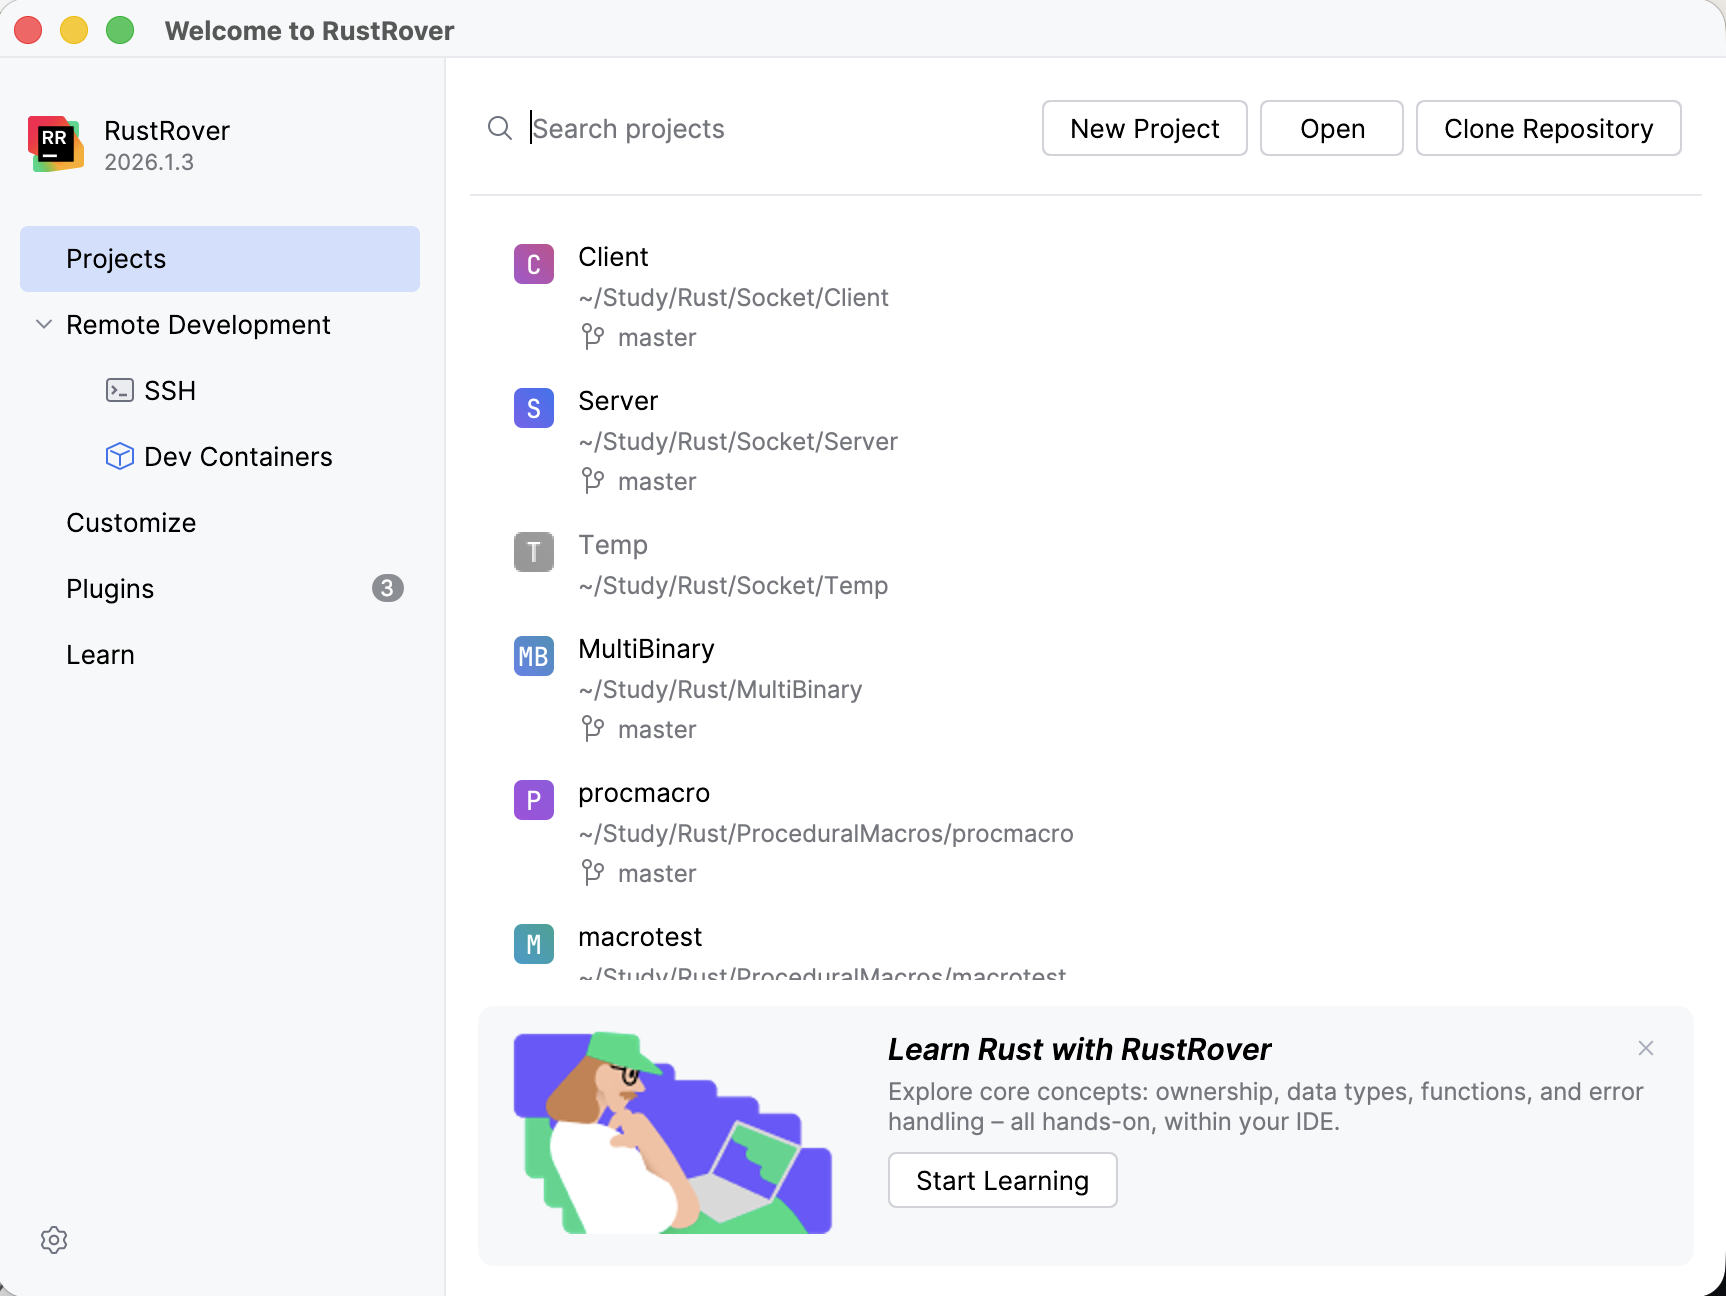
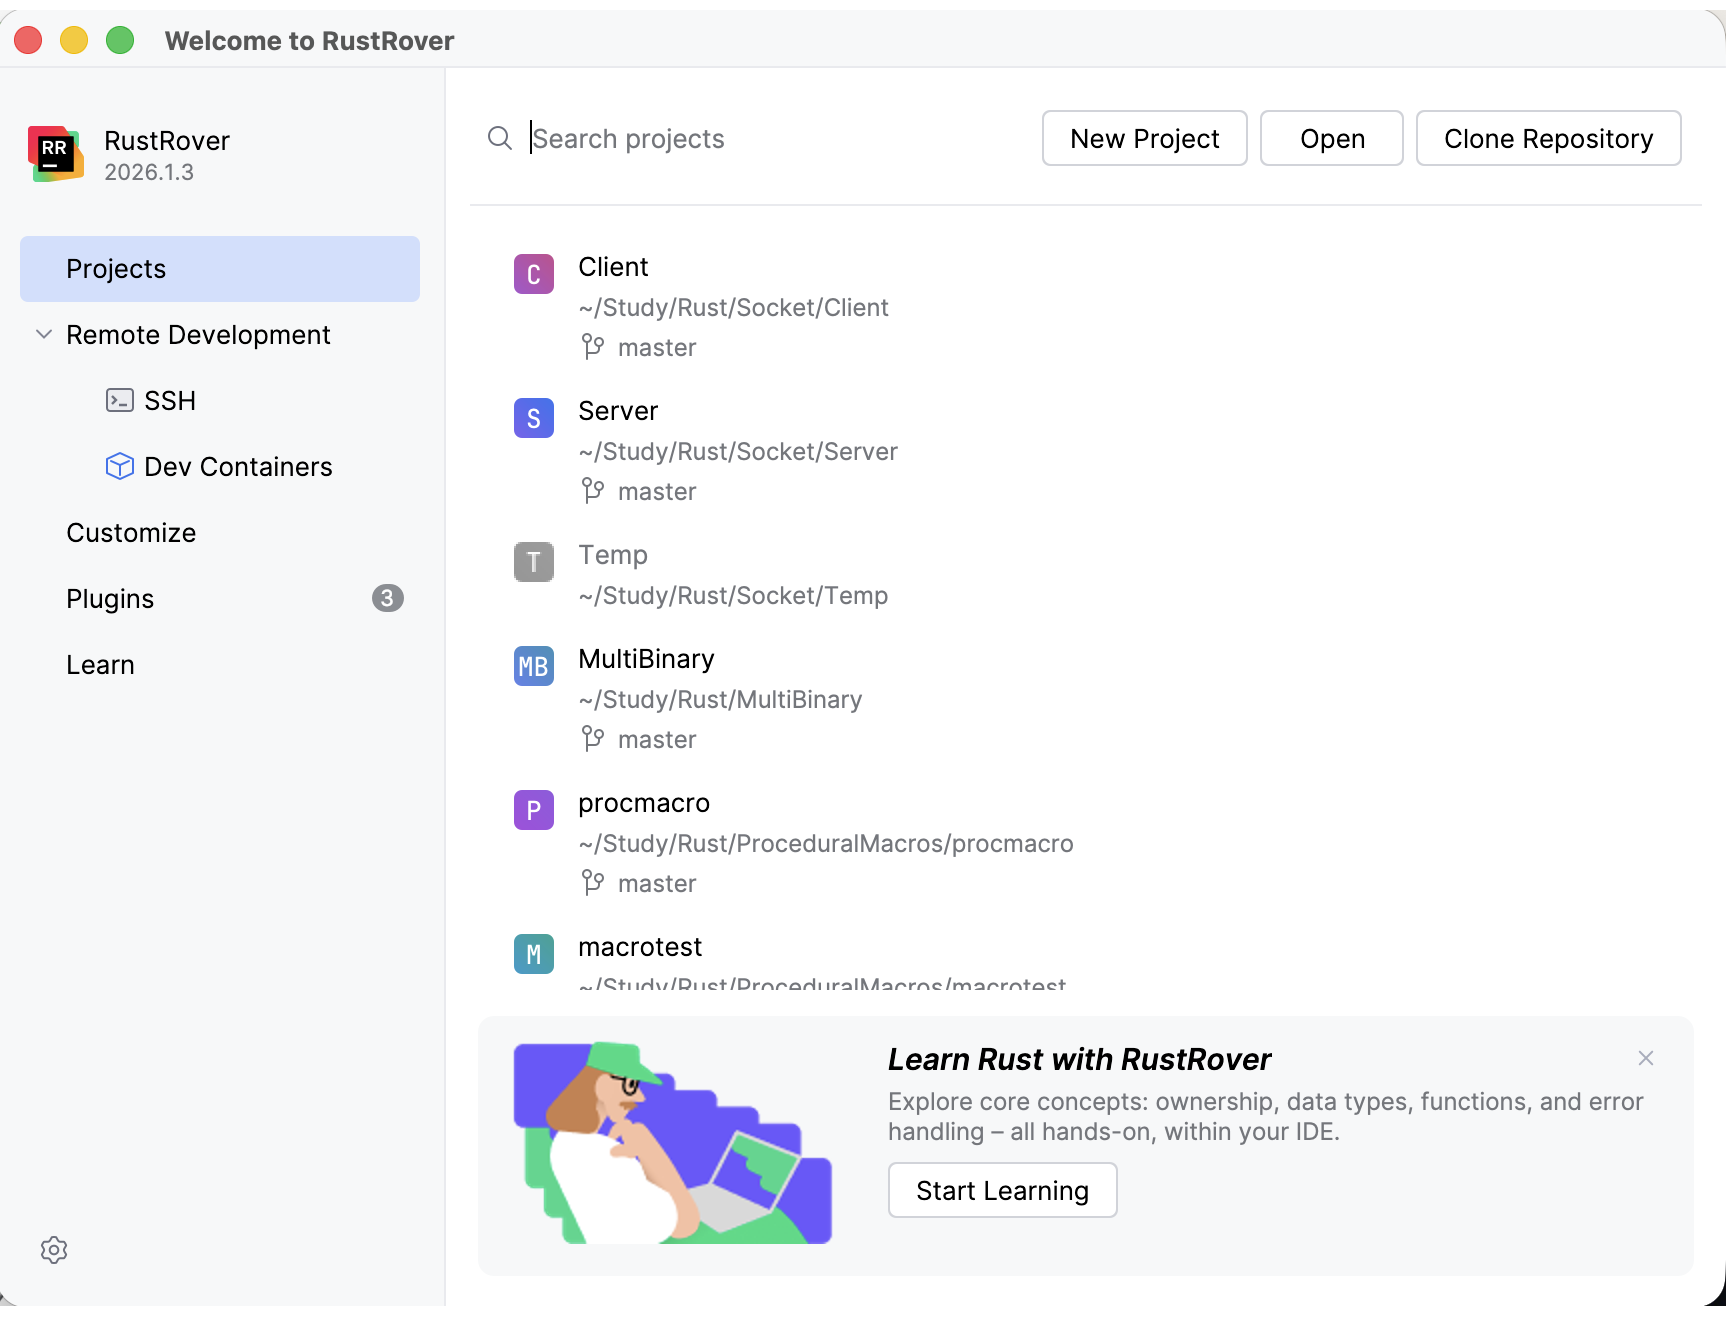
Update

diff --git a/docs/source/introduction.rst b/docs/source/introduction.rst
@@ -409,3 +409,29 @@ Burada yeni bir proje yarattıktan sonra ana editör penceresine geçeceksiniz:
    :width: 85%
 
 Artık tek tuşla programı derleyip çalıştırabilrsiniz.
+
+Sentaks Notasyonu
+=================
+
+Sentaks Açıklama Notasyonu
+--------------------------
+
+Programlama dillerinin sentakslarını betimlemek için pek çok meta dil oluşturulmuştur. Bunlardan en bilineni ve çok
+kullanılanı BNF (Backus-Naur Form) denilen dildir. Gerçekten de bugün programlama dillerinin resmi standartlarında
+ya da referanslarında hep BNF notasyonu ya da bunun türevleri kullanılmaktadır. The Rust Reference dokümanlarında
+da bu notasyon tercih edilmiştir. BNF notasyonu ISO tarafından da standardize edilmiştir. Bunun ismine EBNF
+denilmektedir. Ancak BNF notasyonunun anlaşılması biraz zordur ve ek çalışma gerektirmektedir.
+
+Kitabımızda sentaks açıklamak için BNF ya da EBNF yerine *açısal parantez köşeli parantez tekniği* kullanılacaktır.
+Bu teknikte köşeli parantez içerisindekiler isteğe bağlı (optional) öğeleri açısal parantez içerisindekiler zorunlu
+öğeleri belirtmektedir. Diğer tüm atomlar aynı pozisyonda bulunmak zorundadır. Örneğin C dilindeki if deyimi bu
+notasyonla şöyle belirtilir:
+
+.. code-block:: text
+
+   if (<ifade>)
+       <deyim>
+   [
+   else
+       <deyim>
+   ]
